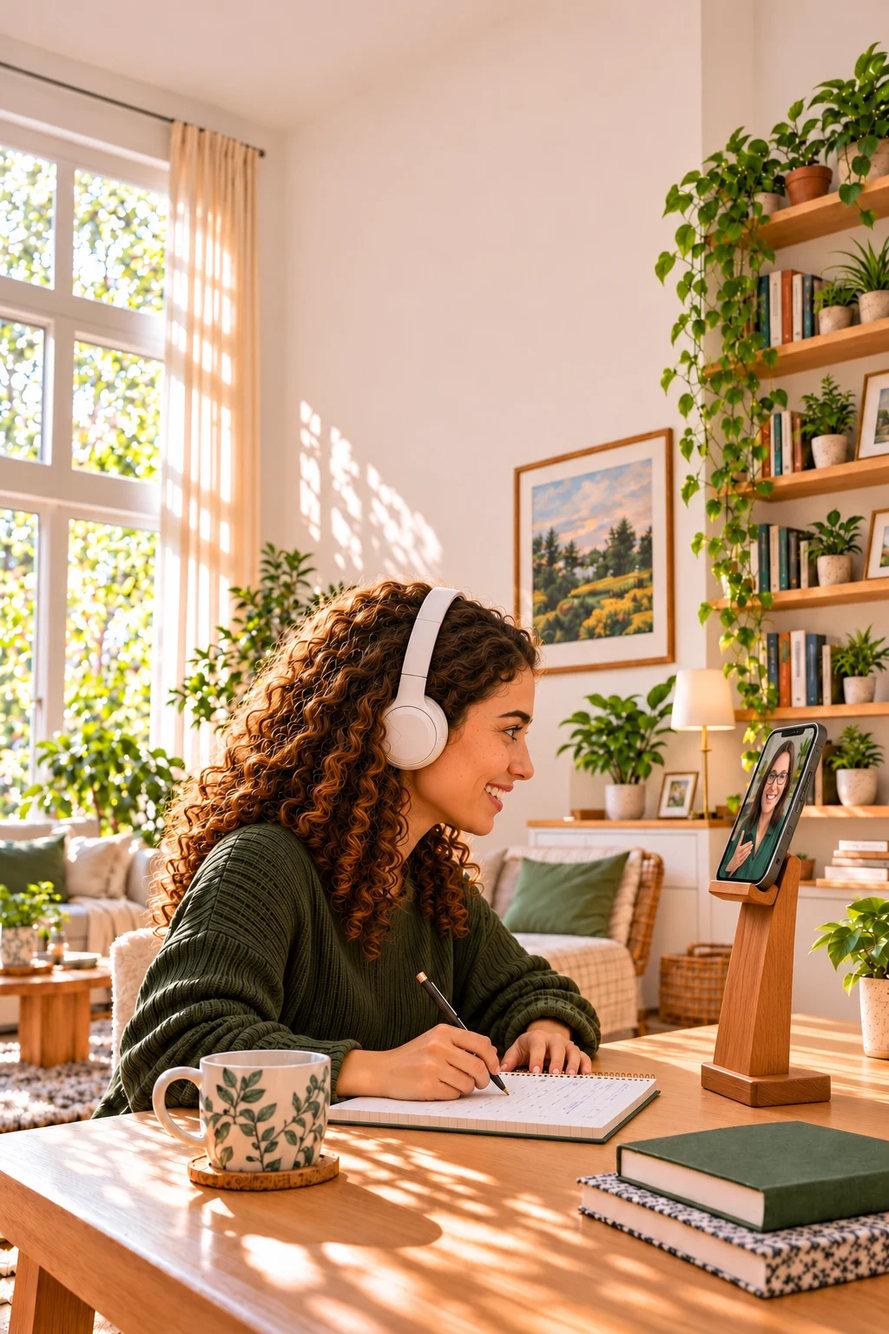
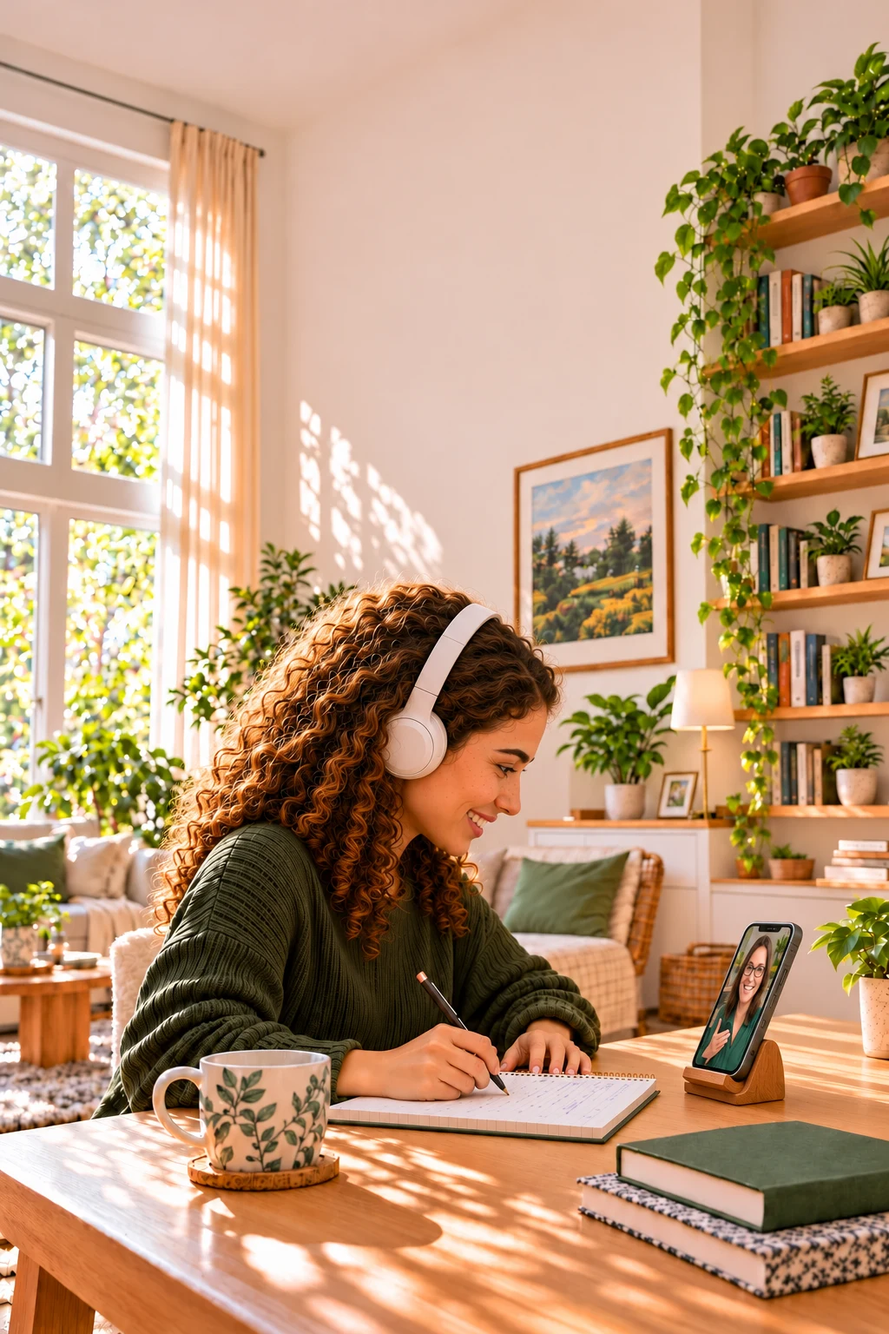
Lower mobile hero phone onto a short tabletop holder

diff --git a/index.html b/index.html
@@ -1,6 +1,6 @@
 <!doctype html><html lang="en"><head><base href="/"><meta charset="utf-8"><meta name="viewport" content="width=device-width,initial-scale=1,viewport-fit=cover"><meta name="theme-color" content="#193c32"><title>Speak Boldly | English Language Coaching</title><meta name="description" content="Build confidence in English with one-to-one online coaching. Explore conversation courses, interview preparation, business writing and free daily practice."><link rel="canonical" href="https://speakboldly.space/"><meta property="og:type" content="website"><meta property="og:site_name" content="Speak Boldly"><meta property="og:title" content="Speak Boldly | English Language Coaching"><meta property="og:description" content="Build confidence in English with one-to-one online coaching. Explore conversation courses, interview preparation, business writing and free daily practice."><meta property="og:url" content="https://speakboldly.space/"><meta property="og:image" content="https://speakboldly.space/speak-boldly-preview-dark-green.png"><meta property="og:image:secure_url" content="https://speakboldly.space/speak-boldly-preview-dark-green.png"><meta property="og:image:type" content="image/png"><meta property="og:image:width" content="1254"><meta property="og:image:height" content="1254"><meta property="og:image:alt" content="Speak Boldly — green SB speech bubble logo"><meta name="twitter:card" content="summary"><meta name="twitter:title" content="Speak Boldly | English Language Coaching"><meta name="twitter:description" content="Build confidence in English with one-to-one online coaching. Explore conversation courses, interview preparation, business writing and free daily practice."><meta name="twitter:image" content="https://speakboldly.space/speak-boldly-preview-dark-green.png"><link rel="stylesheet" href="./assets/site-base.min.css?v=performance-1"><style>.whatsapp-button{position:fixed;right:20px;bottom:calc(20px + env(safe-area-inset-bottom,0px));z-index:4;background:#176b3a;color:#fff;border-radius:999px;padding:14px 20px;display:inline-flex;align-items:center;gap:10px;font-weight:700;box-shadow:0 4px 18px #0003;min-height:48px}.whatsapp-button:hover{background:#12552e}.whatsapp-button svg{width:24px;height:24px;fill:currentColor}footer{padding-bottom:100px}@media(max-width:680px){.whatsapp-button{right:16px;font-size:14px}}</style><style>.speak-logo{gap:12px;letter-spacing:-1px;white-space:nowrap}.speak-logo img{width:46px;height:46px;flex:none}.speak-logo .brand-words{font-size:26px;font-weight:500}.speak-logo strong{font-weight:800}.brand-slogan{font-size:22px;line-height:1.5;font-weight:600;max-width:460px}.contact-section{padding:55px 6%;background:#edf0e6;margin-bottom:40px}header nav{gap:26px}@media(max-width:680px){header nav{gap:12px;flex-wrap:wrap;justify-content:flex-start}.brand-slogan{font-size:20px}.speak-logo .brand-words{font-size:25px}}</style><style>[hidden]{display:none!important}main{padding-bottom:95px}.nav-tab{border:1px solid #ced6c4;background:#edf0e6;color:var(--ink);border-radius:999px;padding:12px 17px;font-size:13px;font-weight:600;transition:background .2s}.nav-tab:hover,.nav-tab[aria-current="page"]{background:var(--ink);color:#fff}header nav{gap:10px}.home-slogan{font-size:clamp(36px,4.5vw,62px);letter-spacing:-2px;max-width:580px;line-height:1.18}.brand-art{background:#e9eddf;display:flex;flex-direction:column;justify-content:center;gap:14px}.hero-emblem{width:75%;max-width:320px;height:auto}.emblem-caption{font-family:'Manrope',sans-serif;letter-spacing:4px;font-weight:800;font-size:20px}#home .hero{min-height:510px}#contact{margin-bottom:0}@media(max-width:680px){header nav{display:grid;grid-template-columns:1fr 1fr;width:100%}.nav-tab{padding:12px 10px}.home-slogan{font-size:40px;letter-spacing:-1.5px}#home .hero{min-height:0}.brand-art{height:300px}.hero-emblem{max-width:240px}.emblem-caption{font-size:17px}}</style><style>.clean-wordmark{font-family:Manrope,"DM Sans",sans-serif;display:flex;flex-direction:column;line-height:1.08;font-size:clamp(46px,6vw,78px);letter-spacing:-4px;color:#193c32}.clean-wordmark>span{font-weight:400}.clean-wordmark strong{font-weight:800}.wordmark-dot{color:#71864e}.brand-art{background:#e9eddf;border:0;box-shadow:none}.speak-logo .brand-words{font-family:"DM Sans",sans-serif}@media(max-width:680px){.clean-wordmark{font-size:64px;letter-spacing:-3px}}</style><style>.sb-lightning{width:230px;height:290px;overflow:visible}.speak-logo .sb-lightning{width:37px;height:46px;flex:none}.brand-art{background:transparent}.brand-art .sb-lightning{filter:drop-shadow(0 8px 0 #d5ed9860)}@media(max-width:680px){.brand-art .sb-lightning{width:190px;height:240px}}</style><link rel="icon" type="image/png" sizes="192x192" href="/app-icons/icon-192.png"><link rel="shortcut icon" type="image/png" href="/app-icons/icon-192.png"><style>.brand-art .butterfly-logo{width:90%;max-width:360px;height:auto;filter:none}.speak-logo .butterfly-logo{width:55px;height:49px;object-fit:contain;filter:none}@media(max-width:680px){.brand-art .butterfly-logo{width:90%;max-width:300px;height:auto}}</style><style>.coaching-photo{height:440px;background:#e9eddf;border-radius:16px;overflow:hidden}.coaching-photo img{width:100%;height:100%;object-fit:cover;object-position:center}.hero{grid-template-columns:1fr 1.25fr;gap:40px}.speak-logo .butterfly-logo{width:46px;height:46px}@media(max-width:680px){.hero{grid-template-columns:1fr}.coaching-photo{height:auto;aspect-ratio:16/9}.coaching-photo img{object-fit:contain}}</style><style>.speak-logo .header-sb-logo{width:48px;height:48px;object-fit:contain;filter:none;flex:none}</style><style>header{height:auto;min-height:100px;padding-top:20px;padding-bottom:20px;gap:22px;flex-wrap:wrap}header nav{flex-wrap:wrap}.whatsapp-button{width:56px;height:56px;padding:0;border-radius:50%;gap:0}.whatsapp-button svg{width:29px;height:29px}.course-illustration{width:100%;height:185px;display:block;object-fit:cover}.course-summary{font-size:12px;line-height:1.7;color:var(--muted)}.course-body h3{min-height:72px}.card-bottom{gap:10px;flex-wrap:wrap}#course-detail>.course-illustration{height:170px;margin-top:10px;border-radius:8px}.course-topics{padding-left:20px;font-size:14px;line-height:1.9}.detail-actions .button{font-size:13px;gap:8px;white-space:normal}.contact-section a{overflow-wrap:anywhere}.placement-question{border:1px solid var(--line);border-radius:8px;padding:18px;margin:20px 0;max-width:750px}.placement-question legend{font-weight:600;padding:0 6px;font-size:16px}.placement-question label{flex-direction:row;align-items:center;font-size:14px}.placement-question input{width:auto;accent-color:#176b3a}.placement-result{padding:25px;background:#e7f0e6;margin-top:30px;border-radius:8px;max-width:750px}.placement-result p{line-height:1.7}.placement-tab{border-color:#176b3a}@media(max-width:680px){.course-body h3{min-height:100px}header nav .placement-tab{grid-column:1/-1}.course-illustration{height:155px}}</style><style>.page-signature{font-family:"Segoe Script","Brush Script MT",cursive;font-size:18px;font-style:italic;color:#176b3a;text-align:left;margin:45px 0 0;padding:0;line-height:1.5}#home>.page-signature{margin:35px 6% 0}main{padding-bottom:20px}#courses,#vision,#contact,#placement{padding-bottom:20px}#how>.page-signature{grid-column:1/-1;margin-top:20px}@media(max-width:680px){.page-signature{font-size:16px}}</style><style>.whatsapp-button{display:grid;place-items:center;width:56px;height:56px;padding:0;line-height:0;box-sizing:border-box}.whatsapp-button svg{display:block;width:28px;height:28px;margin:0;flex:none;overflow:visible}</style><style>.email-link{text-decoration:underline;text-underline-offset:4px;color:#176b3a}.email-link:hover{color:#12552e}</style><style>.page-signature{font-size:13px}@media(max-width:680px){.page-signature{font-size:12px}}</style><style>.vision-story{max-width:850px;font-size:17px;line-height:1.9;color:var(--ink)}.vision-story p{margin:22px 0}.vision-story strong{font-weight:700}.vision-promises{list-style:none;padding:0;margin:18px 0 30px}.vision-promises li{position:relative;padding-left:25px;margin:14px 0}.vision-promises li:before{content:"✓";position:absolute;left:0;color:#176b3a}.safe-place-intro{padding-top:20px;border-top:1px solid var(--line)}@media(max-width:680px){.vision-story{font-size:15px;line-height:1.85}}</style><style>#how{display:block}.how-guide{max-width:900px}.how-guide article{border-bottom:1px solid var(--line);padding:22px 0}.how-guide h3{font-size:18px;line-height:1.5}.how-guide p,.how-guide li{font-size:16px;line-height:1.85}.how-guide a{overflow-wrap:anywhere}.test-submit-bar{position:sticky;top:0;z-index:2;background:#faf9f4f5;border:1px solid var(--line);border-radius:8px;max-width:750px;padding:14px;display:flex;align-items:center;justify-content:space-between;gap:12px}.test-submit-bar .button{font-size:13px;padding:12px 16px}#placement-form button:disabled{opacity:.55;cursor:default}.skip-question{margin-top:4px}#placement-form input:disabled{cursor:default}@media(max-width:680px){.how-guide p,.how-guide li{font-size:14px}}</style><style>.test-pager{max-width:750px;display:flex;align-items:center;justify-content:space-between;gap:12px;margin:24px 0}.test-pager .button{padding:12px 18px;font-size:14px}</style><style>.quote-options{max-width:800px;display:grid;gap:14px;margin-top:25px}.quote-option{display:flex;align-items:center;justify-content:space-between;gap:20px;padding:20px;border:1px solid var(--line);border-radius:8px;background:#edf0e6;color:var(--ink);line-height:1.5}.quote-option:hover{background:#dde8d3}#quote{padding-bottom:20px}</style><style>.quote-request-grid{display:grid;grid-template-columns:repeat(3,minmax(0,1fr));gap:22px;margin-top:30px}.quote-request{padding:25px;border:1px solid var(--line);border-radius:10px;background:#fffef9}.quote-request h3{font-size:21px;line-height:1.4;margin-top:0;min-height:60px}.quote-request textarea{font:inherit;width:100%;resize:vertical;border:1px solid #c9cebf;border-radius:5px;padding:11px;background:#fffef9;color:var(--ink)}.quote-request .button{width:100%}.quote-request textarea:focus-visible{outline:3px solid #8aab4f;outline-offset:4px}@media(max-width:1050px){.quote-request-grid{grid-template-columns:1fr}.quote-request h3{min-height:0}}</style><style>.quote-request summary{font-size:21px;font-weight:700;line-height:1.4;cursor:pointer;list-style:none;display:flex;align-items:center;justify-content:space-between;gap:15px;min-height:65px}.quote-request summary::-webkit-details-marker{display:none}.quote-request summary:after{content:"+";font-size:28px;color:#176b3a}.quote-request[open] summary:after{content:"−"}.quote-request[open] summary{margin-bottom:22px;border-bottom:1px solid var(--line);padding-bottom:18px}.quote-request summary:focus-visible{outline:3px solid #8aab4f;outline-offset:5px}.quote-request-grid{align-items:start}</style><style>.whatsapp-button img{display:block;width:56px;height:56px;border-radius:50%}</style><style>.placement-question legend{white-space:pre-line;line-height:1.6}.placement-participant{max-width:750px;margin:25px 0;padding:20px;background:#edf0e6;border-radius:8px}.placement-consent{display:flex;align-items:flex-start;gap:10px;line-height:1.6}.placement-consent input{width:auto;flex:none;margin-top:5px}.placement-score strong{font-size:32px}.placement-result .button{margin:8px 8px 0 0}</style><link rel="stylesheet" href="./mobile.css?v=motivation-home-only"><style>.vision-photos{display:grid;grid-template-columns:minmax(0,1fr);gap:14px;max-width:400px;margin:24px 0 30px;align-items:start}.vision-photos figure{margin:0;border-radius:10px;overflow:hidden;background:#edf0e6}.vision-photos img{display:block;width:100%;height:auto;aspect-ratio:4/3;object-fit:contain;background:#edf0e6}@media(max-width:420px){.vision-photos{grid-template-columns:1fr;max-width:300px;gap:12px}}</style><style>.vision-photos figcaption{padding:12px 14px;font-size:14px;line-height:1.6;font-weight:600;color:var(--ink)}</style><link rel="stylesheet" href="./admin-calendar.css?v=compact-day" media="print" onload="this.media='all'"><noscript><link rel="stylesheet" href="./admin-calendar.css?v=compact-day"></noscript><link rel="stylesheet" href="./interactive-exams.css" media="print" onload="this.media='all'"><noscript><link rel="stylesheet" href="./interactive-exams.css"></noscript><style>.page-signature{font-family:"DM Sans",sans-serif;font-style:normal;font-size:13px;font-weight:600;letter-spacing:0;color:var(--muted)}.page-signature span,.page-signature small{display:block}.page-signature small{font-size:12px;font-weight:400;margin-top:4px}</style><style>@media print{#portal-content{display:none!important}}</style><link rel="stylesheet" href="./teacher-documents.css?v=centered-small-report" media="print" onload="this.media='all'"><noscript><link rel="stylesheet" href="./teacher-documents.css?v=centered-small-report"></noscript><link rel="apple-touch-icon" sizes="180x180" href="/app-icons/icon-180.png"><meta name="msapplication-TileColor" content="#193c32"><style>#contact .whatsapp-contact{display:inline-flex;width:fit-content;max-width:100%;min-height:44px;padding:10px 16px;font-size:14px;line-height:1.4}</style><style>.practice-task{display:flex;flex-direction:row;align-items:flex-start;gap:12px;margin:20px 0;line-height:1.6}.practice-task input,.practice-goal input{width:24px;height:24px;flex:none;accent-color:#193c32}.practice-task>span{display:block}.practice-task strong{display:block;font-size:18px}.practice-task span span{display:block;color:var(--muted);font-size:15px}.practice-goal{border:0;border-top:1px solid var(--line);padding:22px 0 0;margin-top:26px;min-width:0}.practice-goal legend{font-size:15px;font-weight:600}.practice-goal label{display:flex;flex-direction:row;align-items:center;gap:12px;margin:16px 0;line-height:1.6}</style><link rel="stylesheet" href="./learner-profile.css?v=separate-results" media="print" onload="this.media='all'"><noscript><link rel="stylesheet" href="./learner-profile.css?v=separate-results"></noscript><style>.assessment-options{display:grid;grid-template-columns:repeat(2,minmax(0,1fr));gap:48px;align-items:start}.assessment-options>article{min-width:0}.assessment-options .learner-test-intro{margin:0;padding:0;border:0;max-width:none}.assessment-options .learner-test-intro h3{font-size:clamp(26px,3vw,40px);line-height:1.2;letter-spacing:-1px;margin:14px 0 20px}.assessment-options .english-test-intro h2{margin-top:14px}.assessment-options p{line-height:1.8}.assessment-options .button{margin-top:12px}@media(max-width:680px){.assessment-options{grid-template-columns:1fr;gap:36px}.assessment-options .learner-test-intro{border-top:1px solid var(--line);padding-top:28px}.assessment-options .learner-test-intro h3{font-size:28px}}</style><style>.portal-subfolder{border:1px solid var(--line);border-radius:10px;padding:16px;margin:14px 0;min-width:0}.portal-subfolder summary{cursor:pointer;font-size:17px;font-weight:600;min-height:28px}.folder-files{margin-top:18px}.contact-instructor-links{display:flex;gap:12px;flex-wrap:wrap;margin-top:20px}.portal-subfolder .student-portal-file .button{white-space:normal;overflow-wrap:anywhere;max-width:100%}</style><link rel="stylesheet" href="./assets/site-theme.min.css?v=motivation-return-41"><link rel="manifest" href="./learning-hub.webmanifest"><meta name="apple-mobile-web-app-capable" content="yes"><meta name="apple-mobile-web-app-title" content="Learning Hub"><script type="module" src="./student-polish.js?v=clear-symbols-2"></script><script type="module" src="./dashboard-design.js?v=square-cards-3"></script><script type="module" src="./daily-idiom.js?v=seven-side-3"></script><script type="module" src="./practice-art.js?v=daily-side-3"></script><script type="module" src="./seasonal-art.js?v=no-contact-bubble"></script><meta name="robots" content="index,follow,max-image-preview:large"><script type="application/ld+json">{"@context":"https://schema.org","@graph":[{"@type":"EducationalOrganization","@id":"https://speakboldly.space/#organization","name":"Speak Boldly","url":"https://speakboldly.space/","logo":"https://speakboldly.space/speak-boldly-preview-dark-green.png","email":"Contactus@speakboldly.space","telephone":"+201283786904","founder":{"@type":"Person","name":"Mira Nasser"},"sameAs":["https://whatsapp.com/channel/0029VbDnklQKwqSNnCqGpW2b"]},{"@type":"WebSite","@id":"https://speakboldly.space/#website","name":"Speak Boldly","url":"https://speakboldly.space/","publisher":{"@id":"https://speakboldly.space/#organization"},"inLanguage":"en","alternateName":"Speak Boldly English Language Coaching"},{"@type":"WebPage","@id":"https://speakboldly.space/#webpage","name":"Speak Boldly | English Language Coaching","description":"Build confidence in English with one-to-one online coaching. Explore conversation courses, interview preparation, business writing and free daily practice.","url":"https://speakboldly.space/","isPartOf":{"@id":"https://speakboldly.space/#website"},"primaryImageOfPage":{"@type":"ImageObject","url":"https://speakboldly.space/speak-boldly-preview-dark-green.png","width":1254,"height":1254}}]}</script><link rel="preconnect" href="https://fonts.googleapis.com"><link rel="preconnect" href="https://fonts.gstatic.com" crossorigin><link rel="stylesheet" href="https://fonts.googleapis.com/css2?family=DM+Sans:wght@400;500;600;700;900&amp;family=Manrope:wght@400;500;600;700;800&amp;display=swap" media="print" onload="this.media='all'"><noscript><link rel="stylesheet" href="https://fonts.googleapis.com/css2?family=DM+Sans:wght@400;500;600;700;900&amp;family=Manrope:wght@400;500;600;700;800&amp;display=swap"></noscript><style id="contact-whatsapp-buttons">#contact .contact-whatsapp-actions .whatsapp-contact{background:#193c32;color:#fff;border:1px solid #193c32;padding:12px 20px;border-radius:999px}#contact .contact-whatsapp-actions .whatsapp-channel{background:transparent;color:#193c32;border:1px solid #193c32;padding:12px 20px;border-radius:999px}#contact .contact-whatsapp-actions a:hover{filter:brightness(.92)}#contact .contact-whatsapp-actions a:focus-visible{outline:3px solid #8bb35b;outline-offset:3px}</style><meta name="application-name" content="Speak Boldly"><script type="importmap">{"imports":{"/client-sheet.js?v=domain-email-routing":"/client-sheet.js?v=password-only-3"}}</script></head><body>
 <header><a class="logo speak-logo" href="#home" aria-label="Speak Boldly home"><img class="header-sb-logo" src="./sb-logo-green.svg?v=dark-green" alt="Speak Boldly connected SB speech bubble"><span class="brand-words">Speak <strong>Boldly</strong></span></a><button type="button" class="mobile-menu-toggle" aria-expanded="false" aria-controls="main-navigation"><span aria-hidden="true">☰</span> Menu</button><nav id="main-navigation" aria-label="Main navigation"><a class="nav-tab" data-open-view="vision" aria-controls="vision" href="/#vision">Vision</a><a class="nav-tab" data-open-view="how" aria-controls="how" href="/#how">How it works</a><a class="nav-tab" data-open-view="courses" aria-controls="courses" href="/programs/">Programs</a><a class="nav-tab" data-open-view="placement" aria-controls="placement" href="/assessments/">Assessment</a><a class="nav-tab" data-open-view="quote" aria-controls="quote" href="/#quote">Get quote</a><a class="nav-tab" data-open-view="students-portal" aria-controls="students-portal" href="/#students-portal">Portal</a><a class="nav-tab" data-open-view="boldly-notes" aria-controls="boldly-notes" href="/blog/">Bold Blog</a><a class="nav-tab" data-open-view="speak-hub" aria-controls="speak-hub" href="/#speak-hub">Speak Hub</a><a class="nav-tab" data-open-view="join-team" aria-controls="join-team" href="/#join-team">Join us</a><a class="nav-tab" data-open-view="contact" aria-controls="contact" href="/#contact">Contact us</a></nav></header>
-<main><div id="home" data-view><section class="hero"><div class="hero-copy"><p class="home-kicker">YOUR VOICE. YOUR POSSIBILITIES.</p><h1 class="home-slogan"><span class="home-title-top">English </span><em class="home-title-main">coaching.</em> <span class="home-title-bottom">For real progress!</span></h1><p class="home-pricing-note"><strong>Exclusive rates</strong><span class="home-free-offers"><strong>Free placement tests</strong><span aria-hidden="true">·</span><strong>Free trial sessions</strong></span></p><div class="home-speech-links" aria-label="Explore Speak Boldly"><button class="home-speech-bubble" type="button" data-open-view="reviews" aria-controls="reviews"><svg class="home-bubble-shape" viewBox="0 0 240 240" preserveAspectRatio="none" aria-hidden="true"><path d="M42 22h156c17 0 28 12 28 28v122c0 17-11 28-28 28h-69l-51 30v-30H42c-17 0-28-11-28-28V50c0-16 11-28 28-28z"/></svg><span>Reviews</span></button><a class="home-speech-bubble" href="/learn/daily-quotes/"><svg class="home-bubble-shape" viewBox="0 0 240 240" preserveAspectRatio="none" aria-hidden="true"><path d="M42 22h156c17 0 28 12 28 28v122c0 17-11 28-28 28h-69l-51 30v-30H42c-17 0-28-11-28-28V50c0-16 11-28 28-28z"/></svg><span>Motivation</span></a></div></div><div class="home-picture-and-reviews"><div class="hero-art coaching-photo"><picture><source media="(max-width:680px)" srcset="./home-coaching-phone-facing-learner.webp?v=screen-22"><img src="./home-coaching-desktop-warm.webp?v=faces-20" fetchpriority="high" decoding="async" alt="A learner taking notes during an online English lesson, with her coach explaining beside a textbook on screen" width="1942" height="809" fetchpriority="high"></picture></div></div><div class="home-cover-benefits" aria-label="Learning benefits"><span>English you can use tomorrow</span><span>Learn at your own pace</span><span>Guidance from real experts</span><span>Coaching around your goals</span></div>
+<main><div id="home" data-view><section class="hero"><div class="hero-copy"><p class="home-kicker">YOUR VOICE. YOUR POSSIBILITIES.</p><h1 class="home-slogan"><span class="home-title-top">English </span><em class="home-title-main">coaching.</em> <span class="home-title-bottom">For real progress!</span></h1><p class="home-pricing-note"><strong>Exclusive rates</strong><span class="home-free-offers"><strong>Free placement tests</strong><span aria-hidden="true">·</span><strong>Free trial sessions</strong></span></p><div class="home-speech-links" aria-label="Explore Speak Boldly"><button class="home-speech-bubble" type="button" data-open-view="reviews" aria-controls="reviews"><svg class="home-bubble-shape" viewBox="0 0 240 240" preserveAspectRatio="none" aria-hidden="true"><path d="M42 22h156c17 0 28 12 28 28v122c0 17-11 28-28 28h-69l-51 30v-30H42c-17 0-28-11-28-28V50c0-16 11-28 28-28z"/></svg><span>Reviews</span></button><a class="home-speech-bubble" href="/learn/daily-quotes/"><svg class="home-bubble-shape" viewBox="0 0 240 240" preserveAspectRatio="none" aria-hidden="true"><path d="M42 22h156c17 0 28 12 28 28v122c0 17-11 28-28 28h-69l-51 30v-30H42c-17 0-28-11-28-28V50c0-16 11-28 28-28z"/></svg><span>Motivation</span></a></div></div><div class="home-picture-and-reviews"><div class="hero-art coaching-photo"><picture><source media="(max-width:680px)" srcset="./home-coaching-phone-facing-learner.webp?v=screen-23"><img src="./home-coaching-desktop-warm.webp?v=faces-20" fetchpriority="high" decoding="async" alt="A learner taking notes during an online English lesson, with her coach explaining beside a textbook on screen" width="1942" height="809" fetchpriority="high"></picture></div></div><div class="home-cover-benefits" aria-label="Learning benefits"><span>English you can use tomorrow</span><span>Learn at your own pace</span><span>Guidance from real experts</span><span>Coaching around your goals</span></div>
 
 </section><div class="home-bottom-row"><div data-nosnippet class="page-signature" aria-label="English Language Coaching © 2026 Founded by Mira Nasser Louis."><span>English Language Coaching</span><small>© 2026 Founded by Mira Nasser Louis.</small></div></div></div>
 <section id="speak-hub" class="catalog upcoming-view" data-view hidden><h2>Let’s go truly practical!</h2><div class="upcoming-view-content" inert aria-hidden="true"><p class="intro">Speak Boldly speaking hub</p><p>It can be surprisingly hard to find people who want to use their English every day. Your practice shouldn’t stay between you and your instructor.</p><p>Meet learners from different backgrounds and levels for friendly group chats. Share an idea, ask a question and give your English a life beyond the lesson.</p><div class="speak-hub-illustrations" aria-hidden="true"><div class="culture-activity-art" data-activity="speaking"></div><span>Say it.</span><span>Try it.</span><span>Connect.</span></div><article class="speak-hub-meeting"><h3>A place to use your voice</h3><p>Group chats on Zoom. Dates and times will be announced here when the first meetings are planned.</p><button class="button" type="button" disabled>Join on Zoom</button></article></div><div class="upcoming-watermark">Stay tuned</div></section><section id="boldly-notes" class="catalog boldly-notes" data-view hidden><div class="bold-blog-heading" data-blog-heading><div class="bold-blog-masthead"><h2>Fresh perspectives</h2><div class="bold-blog-brand"><img src="./images/bold-blog-lion.webp" loading="lazy" width="384" height="384" alt="Bold blog roaring green lion logo" decoding="async"></div></div><p class="boldly-notes-intro">Articles exploring language, confidence and identity—with reading and comprehension practice for learners and discussion material for teachers. Come back soon for a fresh perspective.</p></div><div data-notes-list></div><article data-notes-reader hidden></article><p data-notes-status role="status" aria-live="polite"></p><button type="button" class="button light small" data-notes-retry hidden>Try again</button><div data-blog-footer data-nosnippet class="page-signature"><span>English Language Coaching</span><small>© 2026 Founded by Mira Nasser Louis.</small></div></section><section id="reviews" class="catalog reviews-page" data-view hidden><div class="reviews-layout"><div class="reviews-introduction"><div class="reviews-copy"><h2>Your experience, your words</h2><svg class="reviews-spark-art" viewBox="0 0 100 85" fill="none" stroke="currentColor" stroke-width="1.5" aria-hidden="true"><path d="M8 8h58v35H41L24 59V43H8Z" fill="#edf0e6"/><path d="M39 49h51v26H72L59 84v-9H39Z" fill="#faf9f4"/><path d="M21 22h31M21 31h22M50 60h26"/></svg><p class="review-intro">We don't take pictures of our work.<br><strong>We let it speak through your progress!</strong></p><button id="review-open" type="button" class="button light small" aria-haspopup="dialog" aria-controls="review-dialog">Add a review</button></div></div><div class="reviews-album-area"><div class="review-album" id="review-album" hidden aria-label="Learner reviews"><button type="button" class="review-arrow" id="review-previous" aria-label="Previous review">‹</button><div id="review-cards" class="review-cards" role="group" aria-label="Reviews"></div><button type="button" class="review-arrow" id="review-next" aria-label="Next review">›</button><p id="review-position" role="status" aria-live="polite"></p></div><p id="review-list-status" class="review-note" role="status"></p></div></div><div data-nosnippet class="page-signature" aria-label="English Language Coaching © 2026 Founded by Mira Nasser Louis."><span>English Language Coaching</span><small>© 2026 Founded by Mira Nasser Louis.</small></div></section><section id="daily-quote" class="catalog motivation-page" data-view hidden><h2 class="motivation-page-heading">Keep going. Your voice is worth the effort.</h2><div class="motivation-layout"><div class="motivation-visual"><figure class="motivation-picture"><img id="daily-quote-image" alt="" width="1024" height="1024" decoding="async"></figure></div><div class="motivation-content"><blockquote id="daily-quote-text" class="motivation-headline"></blockquote><div id="daily-quote-reflection" class="motivation-reflection"></div></div></div><aside class="motivation-return-note" aria-label="More motivation"><span class="motivation-return-spark" aria-hidden="true">✦</span><div><strong>Your next boost is worth coming back for.</strong><span>Fresh encouragement every week. Make a little room for yourself.</span></div></aside><div data-nosnippet class="page-signature" aria-label="English Language Coaching © 2026 Founded by Mira Nasser Louis."><span>English Language Coaching</span><small>© 2026 Founded by Mira Nasser Louis.</small></div></section><section id="programs" class="catalog" data-view hidden><article class="coaching-independence" style="max-width:760px;margin:0 0 24px;line-height:1.8"><h3>Our goal?<br>To take you where you <em class="independence-highlight">don’t need us anymore</em>.</h3><svg class="program-intro-art" viewBox="0 0 280 350" fill="none" aria-hidden="true"><path d="M40 110 85 35l65 20 60-25 30 82-15 95 25 65-105 45-108-35 20-86Z" fill="#edf0e6"/><path d="M42 185q50-28 98 0 48-28 98 0v92q-48-28-98 0-48-28-98 0Z" fill="#faf9f4" stroke="#193c32" stroke-width="2"/><path d="M140 185v92M60 211q30-12 59 0M60 230q30-12 59 0M161 212q30-12 57 0" stroke="#193c32" stroke-width="2"/><path d="M99 152c-22-67 73-15 72-72" stroke="#193c32" stroke-width="2" stroke-dasharray="5 7"/><path d="m152 89 20-22 18 24" stroke="#193c32" stroke-width="3"/><path d="M57 69h38v37H76l-12 13v-13h-7Z" fill="#d5ed98" stroke="#193c32"/><path d="m220 135 8-19 8 19 20 7-20 8-8 19-8-19-19-8Z" fill="#d5ed98" stroke="#193c32"/><circle cx="52" cy="305" r="12" fill="#193c32"/></svg></article><div class="program-course-actions"><button type="button" class="button small" data-open-view="courses" aria-controls="courses">Explore our programs</button></div><div data-nosnippet class="page-signature" aria-label="English Language Coaching © 2026 Founded by Mira Nasser Louis."><span>English Language Coaching</span><small>© 2026 Founded by Mira Nasser Louis.</small></div></section><section id="courses" class="catalog" data-view hidden><div class="section-heading courses-introduction"><div class="courses-heading"><span class="program-flower" aria-hidden="true"><svg viewBox="0 0 100 110" fill="none" stroke="currentColor" stroke-width="1.5" stroke-linecap="round" stroke-linejoin="round"><path d="M49 7v92M33 100h32"/><path d="M20 15h53l14 13-14 13H20Z" fill="#edf0e6"/><path d="M78 51H25L11 64l14 13h53Z" fill="#f1f3e9"/><path d="M30 28h37M66 64H29"/></svg></span><h2>Find your fit</h2><p class="courses-subtitle">From everyday conversations to English at work. <br>Find a course that fits your goals.</p></div><aside class="course-booking-note" aria-label="Course pricing and session details"><button type="button" class="course-fees-open" data-popup="course-fees-dialog" aria-haspopup="dialog" aria-controls="course-fees-dialog"><svg class="pricing-circle-art" viewBox="0 0 60 60" fill="none" stroke="currentColor" stroke-width="1.3" stroke-linecap="round" stroke-linejoin="round" aria-hidden="true"><path d="M13 5h32v48l-5-4-5 4-6-4-5 4-6-4-5 4ZM21 15h16M21 23h10M21 39h16"/><path d="M32 28c-10-6-13 9-2 8 9 0 7 12-3 7M29 26v19"/></svg>Session &amp; pricing details</button></aside></div><div class="catalog-controls"><div class="filters" role="group" aria-label="Course categories"></div><label class="search"><span>⌕</span><input id="search" type="search" placeholder="Search courses" aria-label="Search courses"></label></div><div id="course-grid" class="course-grid"></div><div data-nosnippet class="page-signature" aria-label="English Language Coaching © 2026 Founded by Mira Nasser Louis."><span>English Language Coaching</span><small>© 2026 Founded by Mira Nasser Louis.</small></div></section>
